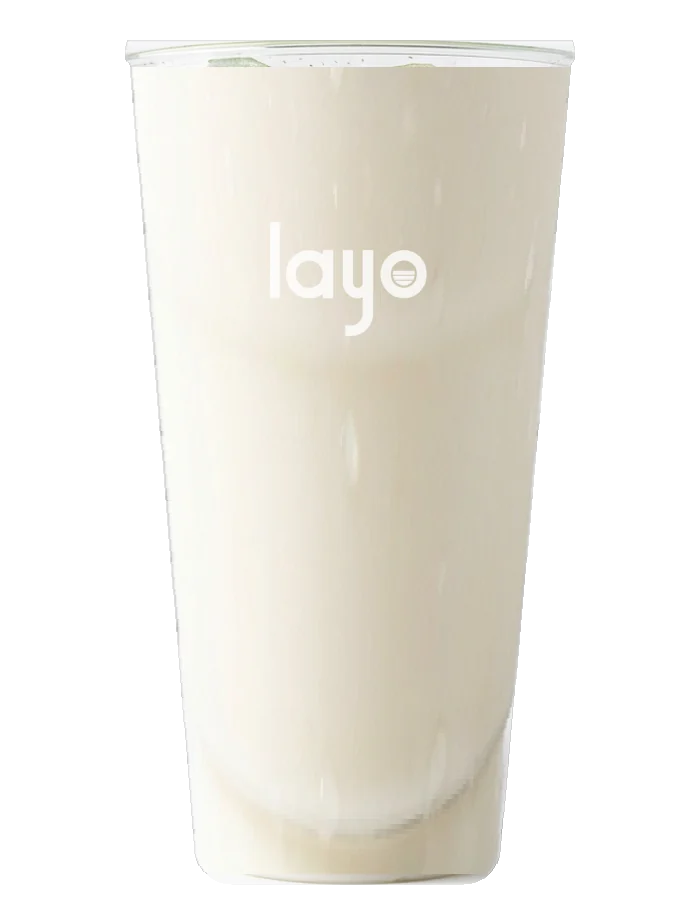
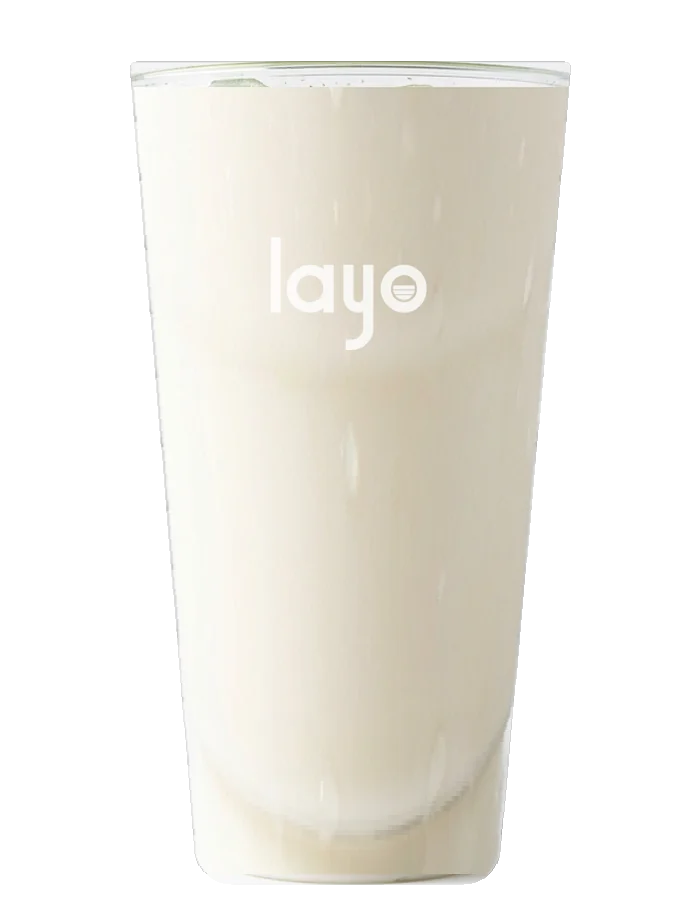
Layo: cups trimmed to the real rim and base (no white backdrop, rounded corners), identical silhouette for every drink
Claude-Session: https://claude.ai/code/session_01UTJuAjWUwzzxbHTx65gk4g

Changed region(s): [[0.18, 0.0311, 0.84, 0.1244], [0.39, 0.28, 0.63, 0.4044]]

diff --git a/tools/build_live.py b/tools/build_live.py
@@ -44,6 +44,25 @@ def clean(F):
         while r>l and bgl[y,r]: r-=1
         ls[y],rs[y]=l,r
     ok=np.where(ls>=0)[0]
+    # where the cup really starts and ends: skip white backdrop rows above the rim and below the base
+    pure=(L>239)&(S<4)   # the flat white studio backdrop, not the clear plastic
+    def content(y):
+        c=np.where(F[y,:,3]>128)[0]
+        if len(c)<20: return 0
+        return 1-pure[y,c[0]:c[-1]+1].mean()
+    # last backdrop row near the top (a thin edge line can sit above the white band), first backdrop row near the bottom
+    top_y=ok[0]
+    for y in range(ok[0], min(ok[0]+70, ok[-1])):
+        if content(y)<.25: top_y=y+1
+    bot_y=ok[-1]
+    def content_b(y):
+        c=np.where(F[y,:,3]>128)[0]
+        if len(c)<20: return 0
+        return 1-bgl[y,c[0]:c[-1]+1].mean()
+    for y in range(ok[-1], max(ok[-1]-60, top_y), -1):
+        if content_b(y)<.6: bot_y=y-1
+    ls[:top_y]=-1; rs[:top_y]=-1; ls[bot_y+1:]=-1; rs[bot_y+1:]=-1
+    ok=np.where(ls>=0)[0]
     def smooth(v):
         o=v.copy()
         for y in ok: lo,hi=max(ok[0],y-12),min(ok[-1],y+12); o[y]=np.median(v[lo:hi+1][v[lo:hi+1]>=0])
@@ -55,6 +74,8 @@ def clean(F):
         l,r=ls2[y],rs2[y]
         if y>y1-R:   # rounded base
             k=(y-(y1-R))/R; inset=R*(1-np.sqrt(max(0,1-k*k))); l+=inset; r-=inset
+        if y<y0+6:   # a small roll at the rim instead of a square corner
+            k=(y0+6-y)/6; inset=6*(1-np.sqrt(max(0,1-k*k))); l+=inset; r-=inset
         xs=np.arange(Ww); al[y]=np.clip(np.minimum(xs-l+1.5, r-xs+1.5)/1.5,0,1)
     F[:,:,3]=(np.minimum(F[:,:,3]/255.,al)*255).astype(np.uint8)
     return F
